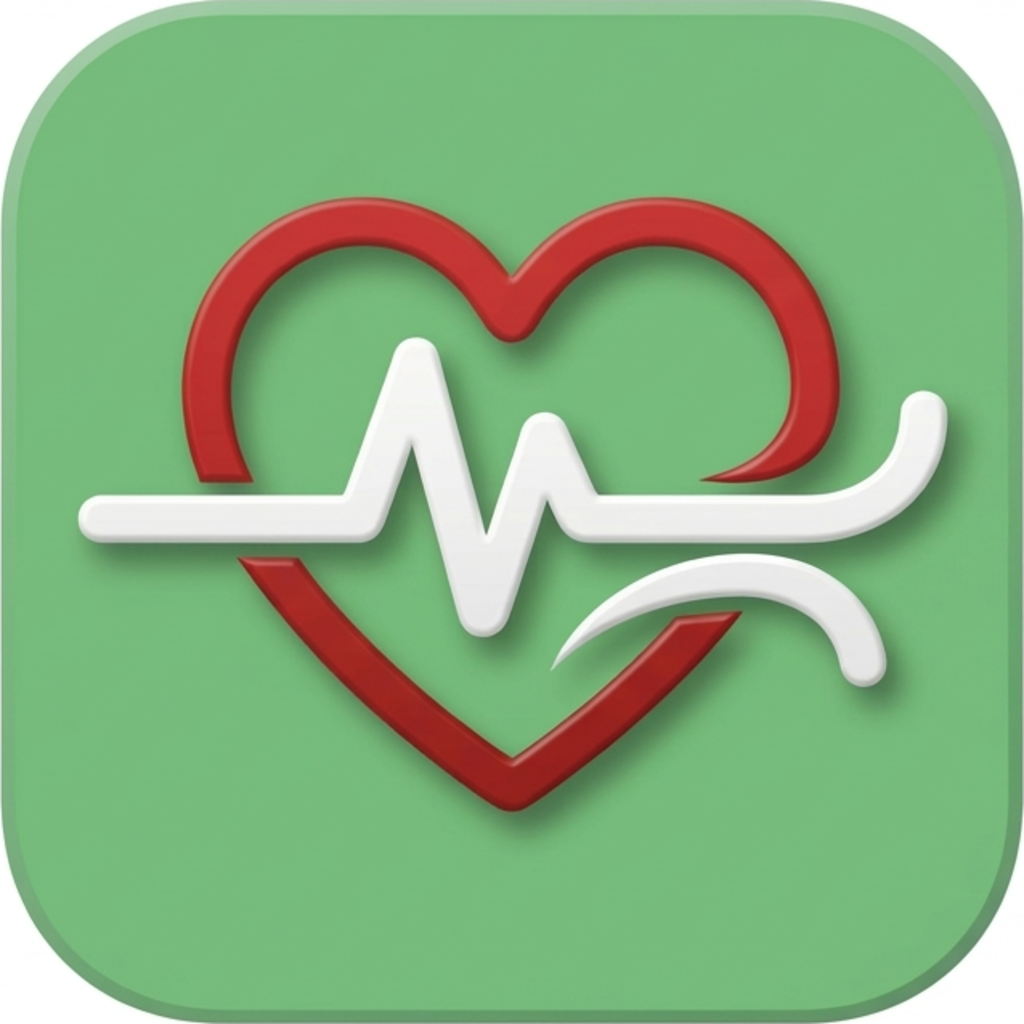
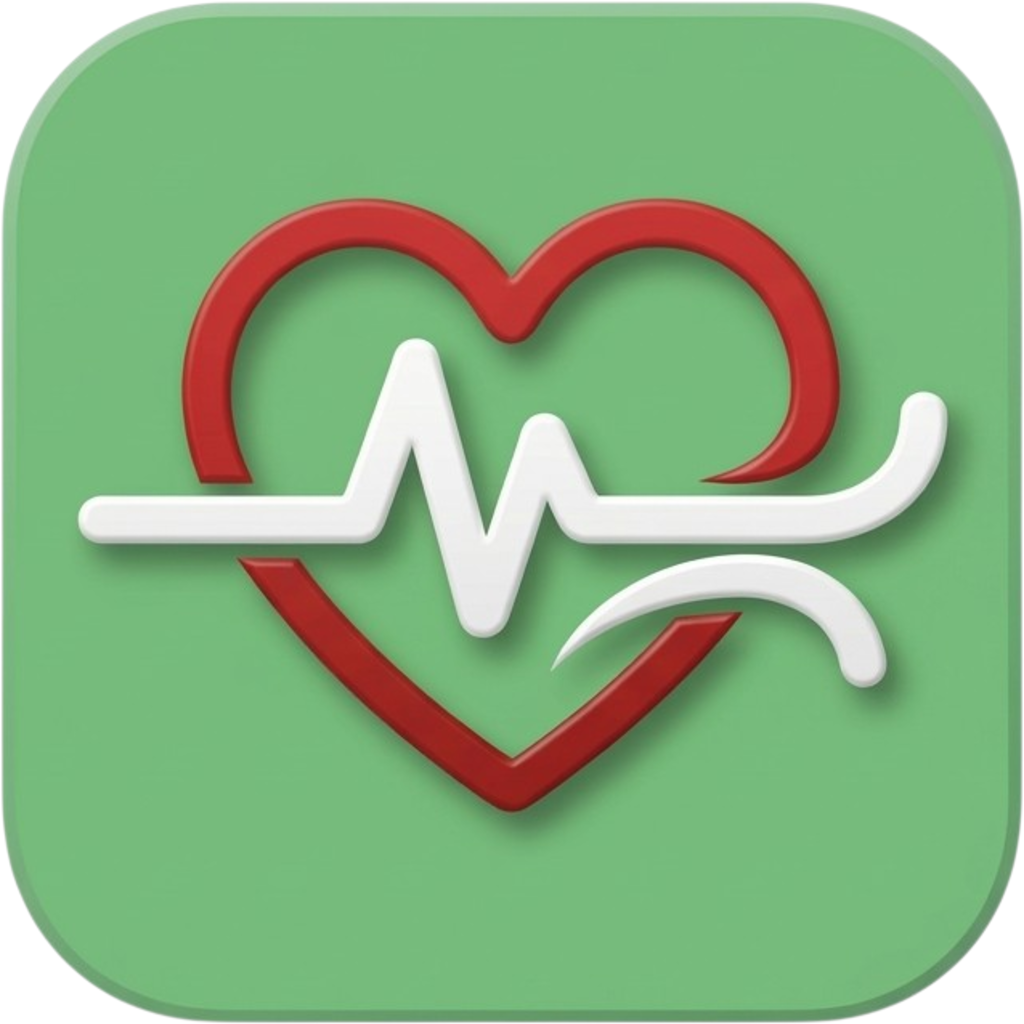
ui: 앱 아이콘 업데이트 및 README 아이콘 이미지 변경

diff --git a/README.ko.md b/README.ko.md
@@ -8,7 +8,7 @@
 [![License](https://img.shields.io/badge/License-MIT-yellow?style=flat-square)](LICENSE.md)
 
 <p align="center">
-  <img src="assets/images/logo.svg" alt="iKong Logo" width="96"/>
+  <img src="assets/images/icon.png" alt="iKong Logo" width="96"/>
 </p>
 
 <p align="center">

diff --git a/README.md b/README.md
@@ -8,7 +8,7 @@
 [![License](https://img.shields.io/badge/License-MIT-yellow?style=flat-square)](LICENSE.md)
 
 <p align="center">
-  <img src="assets/images/logo.svg" alt="iKong Logo" width="96"/>
+  <img src="assets/images/icon.png" alt="iKong Logo" width="96"/>
 </p>
 
 <p align="center">
